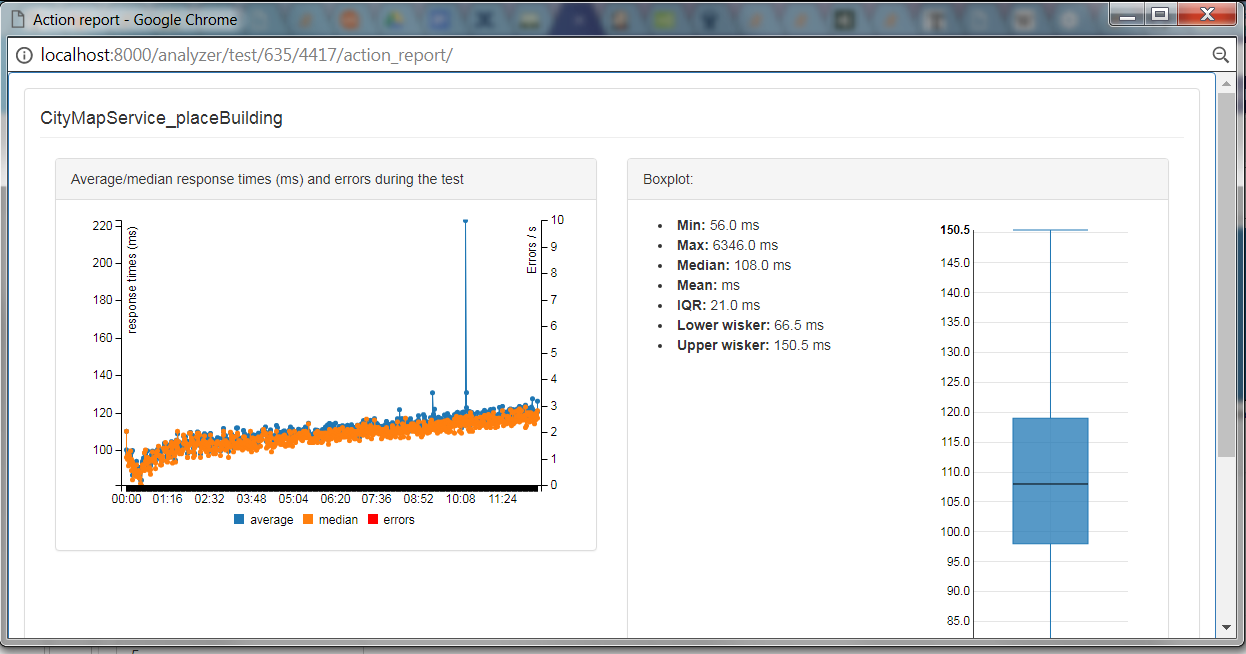
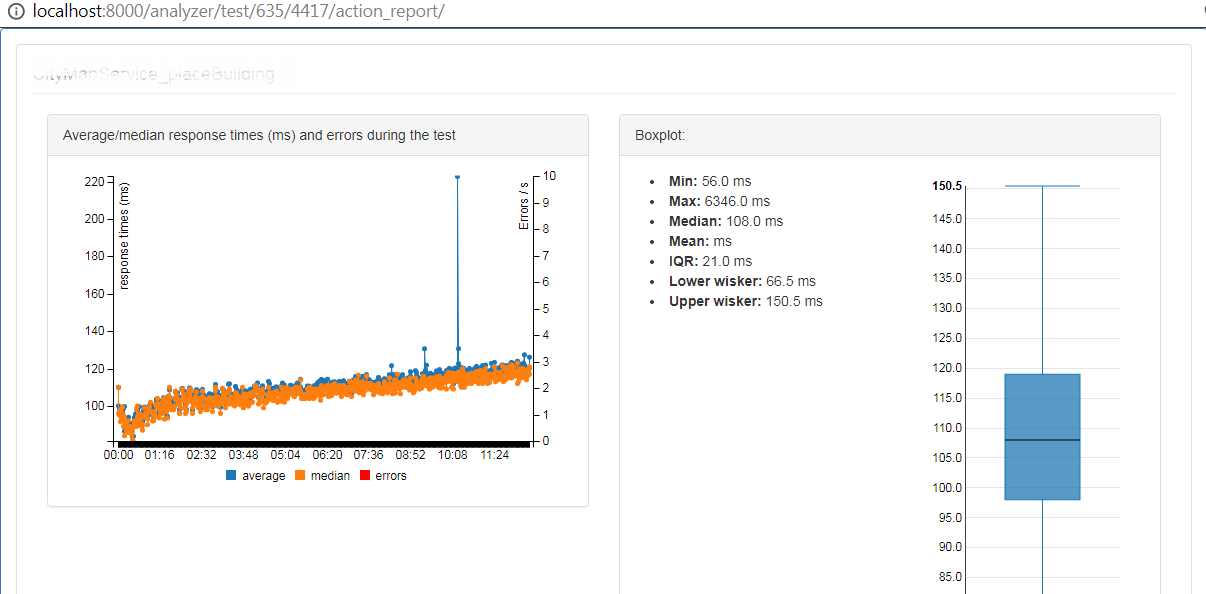
Update README.md

diff --git a/README.md b/README.md
@@ -14,18 +14,17 @@ Consist of several modules:
 
 
 ## [ANALYZER] 
-Get a performance trends for all test results
-![alt tag](https://github.com/v0devil/jltom/blob/master/pics/trend_.png)
-
 Create dynamic report for the tests
 ![alt tag](https://github.com/v0devil/jltom/blob/master/pics/report.png)
+
+Get a performance trends for all test results
+![alt tag](https://github.com/v0devil/jltom/blob/master/pics/trend_.png)
 
 Get fancy good-readable aggregate table for the test:
 ![alt tag](https://github.com/v0devil/jltom/blob/master/pics/aggregate.png)
 
 Get detailed report for executed action:
-
-![alt tag](https://github.com/v0devil/jltom/blob/master/pics/action_report.png)
+![alt tag](https://github.com/v0devil/jltom/blob/master/pics/action_report_.png)
 
 Get response times, rps, errors data from test:
 ![alt tag](https://github.com/v0devil/jltom/blob/master/pics/graphs.png)
@@ -45,6 +44,7 @@ The application comes with:
 * [Twitter Bootstrap](http://getbootstrap.com/)
 * [Highlights.js](https://highlightjs.org/)
 * [nvd3](http://nvd3-community.github.io)
+
 Current `requirements.txt` file is:
 
 ```
